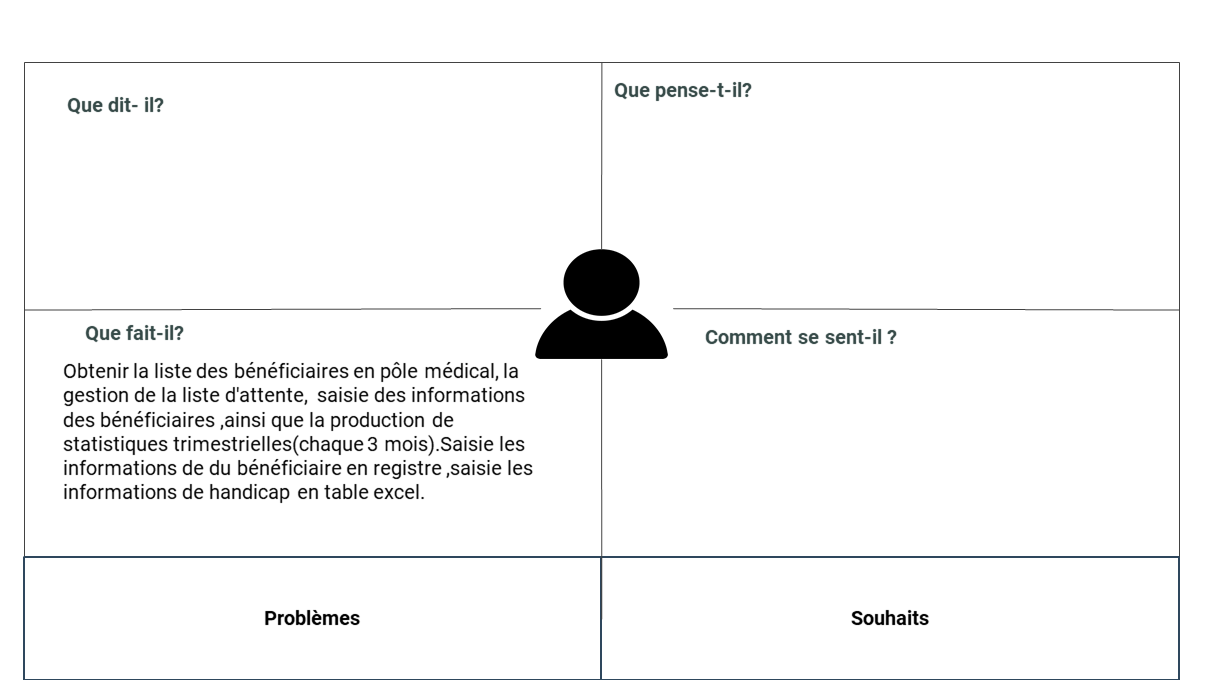
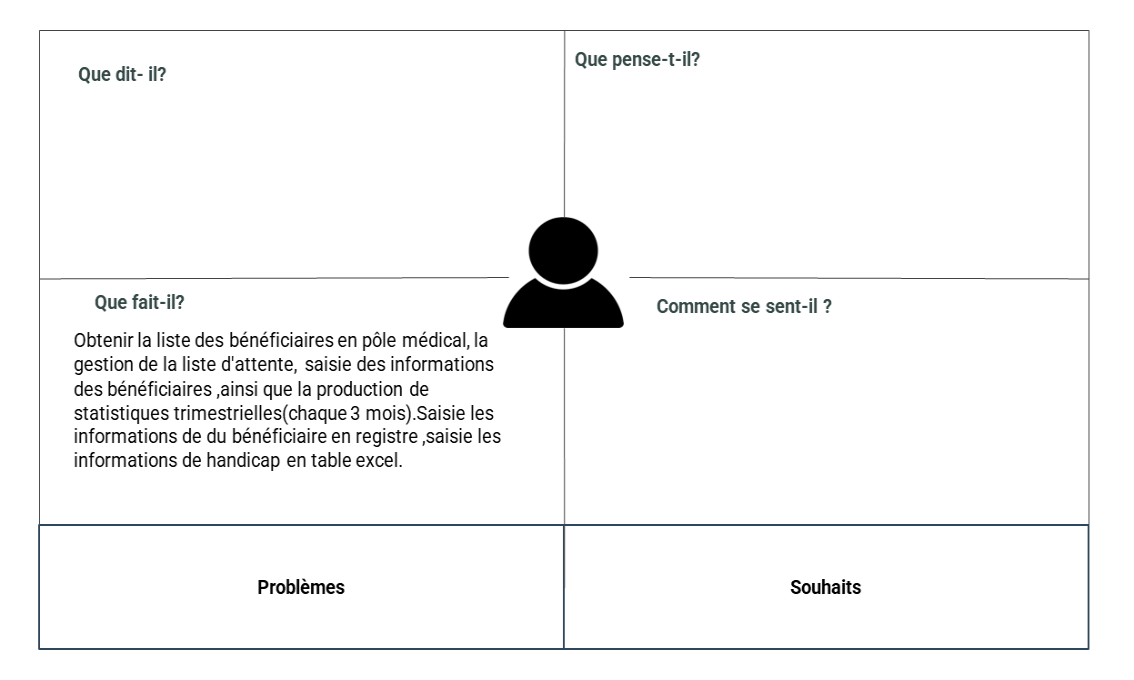
Update empathie-psychomotricien layout and order

diff --git a/docs/empathie-psychomotricien/resume.md b/docs/empathie-psychomotricien/resume.md
@@ -1,0 +1,26 @@
+---
+layout: default
+chapitre: Resumer
+order: 9
+---
+
+# Empathie psychomotricie
+
+<!-- new slide -->
+
+## Introduction
+
+![Exposé constructeur](./images/carte-empathie-psychomotricien-Salma-LIKRAM.png){:width="700px" }*figure: Empathie avec Salma LIKRAM*
+
+<!-- note -->
+
+Une séance d’empathie a été réalisée avec SALMA LIKRAM, psychomotrice de service de rééducation, le 23 avril 2023.
+
+## Lien de Rapport
+
+[Rapport](/besoin/empathie-psychomotricien/rapport.html)
+
+## Lien de la Présentation
+
+[Présentation](/besoin/empathie-psychomotricien/presentation.html)
+

diff --git a/docs/empathie-psychomotricien/empathie-psychomotricien.md b/docs/empathie-psychomotricien/empathie-psychomotricien.md
@@ -1,16 +1,16 @@
 ---
 layout: default
-expose: empathie-psychomotricien
-order: 6
+empathie: empathie-psychomotricien
+order: 9
 ---
 
 # Empathie psychomotricien
+{:class="sectionHeader"}
 
 <!-- new slide -->
+## Carte d'empathie 
 
-## Cart de empathie
-
-![Empathy](./images/carte-empathie-psychomotricien-Salma-LIKRAM.png){:width="58%"}_figure: Empathie avec Salma LIKRAM_
+![Empathy](./images/carte-empathie-psychomotricien-Salma-LIKRAM.png){:width="700px"}*figure: Empathie avec Salma LIKRAM*
 
 <!-- note -->
 

diff --git a/docs/empathie-psychomotricien/rapport.md b/docs/empathie-psychomotricien/rapport.md
@@ -4,7 +4,7 @@ layout: default
 
 {% assign pages = site.pages | sort: "order" %}
 {% for page in pages %}
-{% if page.expose == "empathie-psychomotricien" && page.expose == "Resumer" %}
+{% if page.empathie == "empathie-psychomotricien" %}
 {{- page.content | markdownify -}}
 {% endif %}
 {% endfor %}

diff --git a/docs/empathie-psychomotricien/presentation.md b/docs/empathie-psychomotricien/presentation.md
@@ -5,7 +5,7 @@ order: 1
 
 {% assign pages = site.pages | sort: "order" %}
 {% for page in pages %}
- {% if page.expose == "empathie-psychomotricien" %}
+ {% if page.empathie == "empathie-psychomotricien" %}
     {{- page.content | markdownify -}}
   {% endif %}
 {% endfor %}
